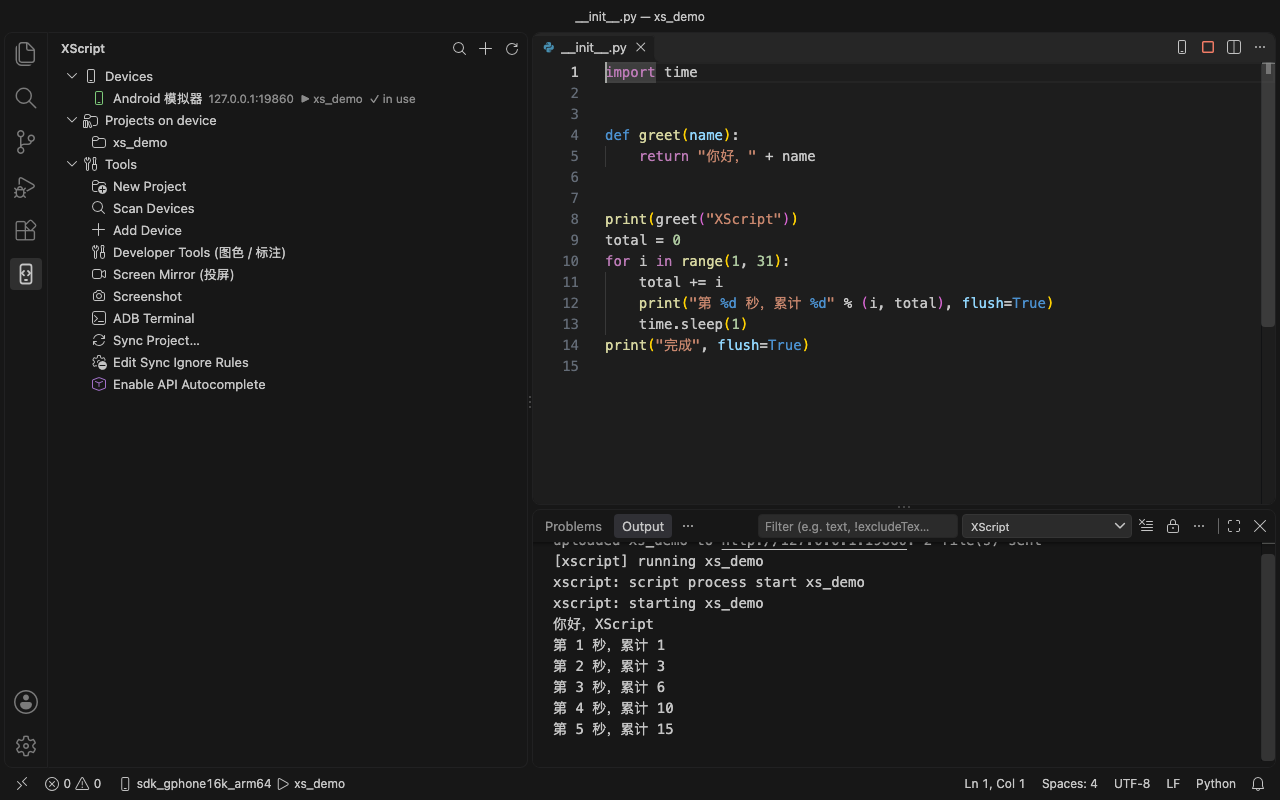
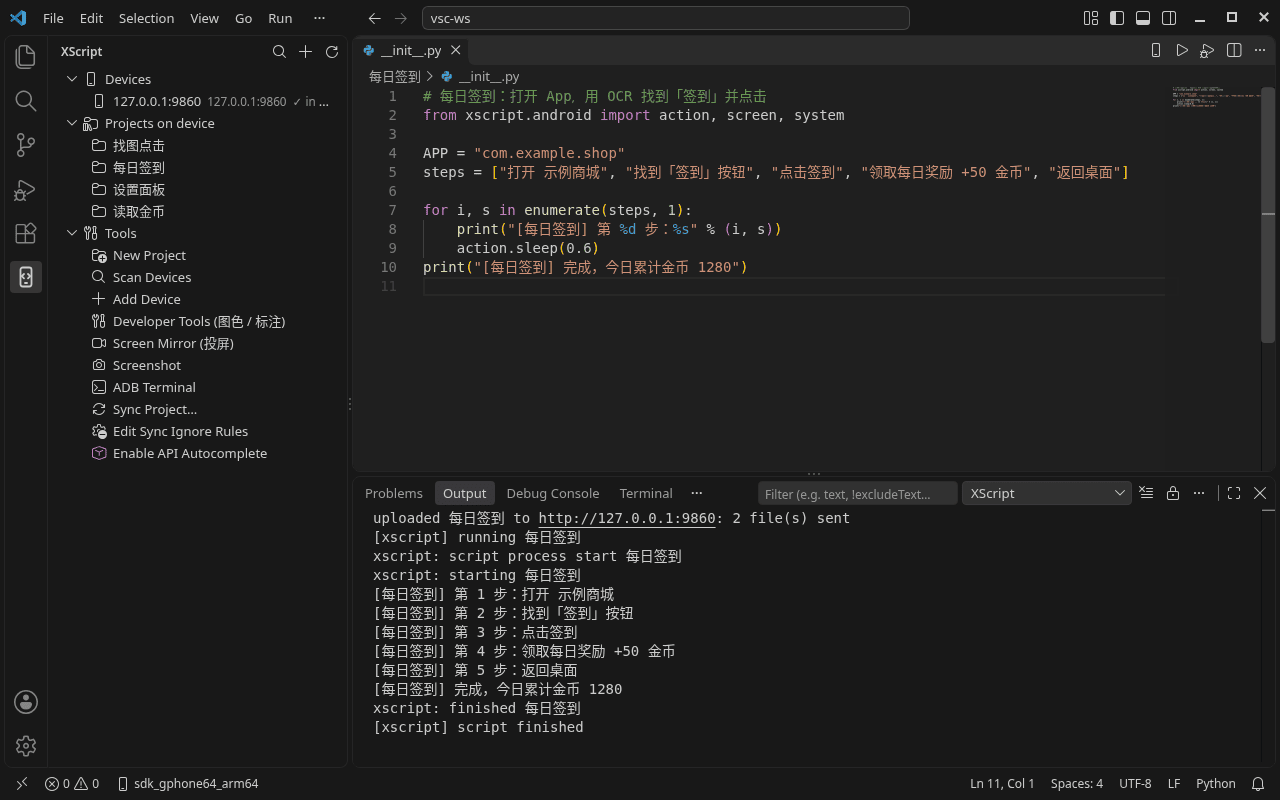
docs: refresh screenshots for the v0.4.0 UI and add admin console, pairing and template shots

diff --git a/README.en.md b/README.en.md
@@ -77,19 +77,22 @@ If you would rather not build it yourself, use the published packages. All you n
 
 | Home | Mini-program list | Mini-program details |
 | :---: | :---: | :---: |
-| <img src="docs/images/phone-home.png" width="220" alt="Home: developer address, current mini-program and permission status"> | <img src="docs/images/phone-projects.png" width="220" alt="Mini-program list: create, import"> | <img src="docs/images/phone-project.png" width="220" alt="Mini-program details: run, log, run on boot, scheduled tasks, files"> |
-| Developer address, permission status, one-tap run of the last mini-program | **New** / **Import**, tap one to open it | **Run** / **Log**, run on boot, re-run after stop, scheduled tasks |
+| <img src="docs/images/phone-home.png" width="220" alt="Home: current mini-program, developer address, pairing code, AI coding and cloud connection status, permissions"> | <img src="docs/images/phone-projects.png" width="220" alt="Mini-program list: create, import"> | <img src="docs/images/phone-project.png" width="220" alt="Mini-program details: run, log, run on boot, scheduled tasks, files"> |
+| Developer address, pairing code, permission status, one-tap run of the last mini-program | **New** / **Import**, tap one to open it | **Run** / **Log**, run on boot, re-run after stop, scheduled tasks |
 | **View code** | **Run log** | **Scheduled tasks** |
 | <img src="docs/images/phone-editor.png" width="220" alt="Viewing and editing __init__.py on the phone"> | <img src="docs/images/phone-run-log.png" width="220" alt="Run log: print output shown live, can be stopped and cleared"> | <img src="docs/images/phone-schedule.png" width="220" alt="Adding a scheduled task: daily at a time, every N minutes, run once"> |
 | Tap a file on the details page to view and make simple edits | `print` output shows live; **Stop** / **Clear** | Daily at a time, every N minutes, run once |
+| **Pairing code** | **New (templates)** | |
+| <img src="docs/images/phone-pairing.png" width="220" alt="Pairing code dialog: the code a computer enters on first connection; regenerate, copy or close"> | <img src="docs/images/phone-templates.png" width="220" alt="New mini-program: enter a name and pick a template (empty, Hello, AScript style, daily check-in, find image, OCR, floating UI)"> | |
+| Home → **Pairing code**: entered once by each computer; can be regenerated. The desktop client over USB pairs automatically | Seven templates, the same as **New Project** in the web IDE and the VS Code extension | |
 
 **4. Background floating window**: when a script is running and you send XScript to the background, a floating window appears at the edge of the screen (green dot + project name + elapsed time). After a few seconds without touch it shrinks into a semi-transparent ball. Dragging snaps it to the left or right edge with easing (staying clear of the status bar and navigation bar) and remembers the position, one for portrait and one for landscape. Tap it to expand **Stop / Log / Open / Hide** (icon above, small label below; colors follow the light/dark theme) plus any buttons the script added with `FloatWindow.add_menu`, so you can stop a script without returning to the app. If a script ends with an error the window turns red and stays for a few seconds. **Floating window display** on the home screen can be set to show while running (default) / always show in the background / off. It needs the **overlay permission**; without it the window is simply not shown and scripts run normally. It collapses when you return to the app or when the script ends.
 
 <img src="docs/images/phone-floating.png" width="240" alt="Floating window over another app: the expanded panel has Stop, Log, Open and Hide buttons">
 
-**5. Write scripts on the computer**: the **developer address** on the home screen is the address your computer connects to. On the same LAN, open `http://<developer address>/tools/` directly; over USB or with an emulator, run `adb forward tcp:19860 tcp:9860` first and then open `http://127.0.0.1:19860/tools/`, and go to the **Script IDE**.
+**5. Write scripts on the computer**: the **developer address** on the home screen is the address your computer connects to. On the same LAN, open `http://<developer address>/tools/` directly; over USB or with an emulator, run `adb forward tcp:19860 tcp:9860` first and then open `http://127.0.0.1:19860/tools/`, and go to the **Script IDE**. The first visit asks for the **pairing code** shown on the phone's home screen.
 
-![Script IDE: directory tree on the left, editor with Python highlighting on the right, run log below](docs/images/ide-overview.png)
+![Script IDE: projects and directory tree on the left, editor with Python highlighting in the middle, breakpoint debugging and run log below](docs/images/ide-overview.png)
 
 - **New** project from a template (empty, Hello, AScript-compatible, check-in, find image and tap, OCR readout, floating UI; the phone app's **New** offers the same list); **New** file / folder: file paths look like `utils/net.py` and go into the folder selected in the tree by default; the tree works like VS Code's.
 - ⌘/Ctrl+S saves; **Save and run** (F6) runs on the phone, **Stop** (Shift+F6) ends the run; **Save and debug** supports breakpoints, stepping and variable inspection.

diff --git a/README.md b/README.md
@@ -75,19 +75,22 @@ XScript 将设备端 Python 运行时、自动化 API、浏览器开发工具和
 
 | 首页 | 小程序列表 | 小程序详情 |
 | :---: | :---: | :---: |
-| <img src="docs/images/phone-home.png" width="220" alt="首页：开发者地址、当前小程序和各项权限状态"> | <img src="docs/images/phone-projects.png" width="220" alt="小程序列表：新建、导入"> | <img src="docs/images/phone-project.png" width="220" alt="小程序详情：运行、日志、开机自启、定时任务、文件"> |
-| 开发者地址、权限状态，一键运行上次的小程序 | **新建** / **导入**，点进某个小程序 | **运行** / **日志**、开机自启、停止后重新运行、定时任务 |
+| <img src="docs/images/phone-home.png" width="220" alt="首页：当前小程序、开发者地址、配对码、AI 编程和云控连接状态、各项权限"> | <img src="docs/images/phone-projects.png" width="220" alt="小程序列表：四个示例小程序，右上角新建、导入"> | <img src="docs/images/phone-project.png" width="220" alt="小程序详情：运行、日志、开机自启、定时任务、文件"> |
+| 开发者地址、配对码、权限状态，一键运行上次的小程序 | **新建** / **导入**，点进某个小程序 | **运行** / **日志**、开机自启、停止后重新运行、定时任务 |
 | **查看代码** | **运行日志** | **定时任务** |
 | <img src="docs/images/phone-editor.png" width="220" alt="手机上查看和修改 __init__.py"> | <img src="docs/images/phone-run-log.png" width="220" alt="运行日志：print 输出实时显示，可停止、清空"> | <img src="docs/images/phone-schedule.png" width="220" alt="添加定时任务：每天定时、每隔 N 分钟、只运行一次"> |
 | 详情页点文件即可查看和简单修改 | `print` 输出实时显示，可 **停止** / **清空** | 每天定时、每隔 N 分钟、只运行一次 |
+| **配对码** | **新建（模板）** | |
+| <img src="docs/images/phone-pairing.png" width="220" alt="配对码弹窗：电脑首次连接时输入的配对码，可重新生成、复制或关闭"> | <img src="docs/images/phone-templates.png" width="220" alt="新建小程序：填名称并选择模板（空白、Hello、AScript 风格、每日签到、找图、OCR、悬浮窗界面）"> | |
+| 首页「配对码」：电脑端首次连接时输入，可重新生成；USB 连接的桌面客户端自动配对 | 七个模板，与网页 IDE、VS Code 插件的「新建工程」相同 | |
 
 **4. 后台悬浮窗**：脚本运行时把 XScript 切到后台，屏幕边上会出现一个悬浮窗（绿点 + 工程名 + 已运行时间），几秒不碰就缩成半透明小球；拖动会带缓动吸附到左右边（避开状态栏和导航条）并记住位置，横竖屏各一份；点一下展开 **停止 / 日志 / 打开 / 隐藏**（图标在上、小字在下，随深浅色换配色）和脚本用 `FloatWindow.add_menu` 加的按钮，不用回到 App 就能停脚本；脚本出错结束时会标红保留几秒。首页 **悬浮窗显示** 可选 运行时显示（默认）/ 后台一直显示 / 已关闭，需要 **悬浮窗权限**，没授权时不显示也不影响运行。回到 App 或脚本结束就收起。
 
 <img src="docs/images/phone-floating.png" width="240" alt="在别的 App 上方显示的悬浮窗：展开后有停止、日志、打开、隐藏四个按钮">
 
-**5. 在电脑上写脚本**：首页 **开发者地址** 就是电脑要访问的地址。同一局域网直接打开 `http://<开发者地址>/tools/`；USB 或模拟器先 `adb forward tcp:19860 tcp:9860`，再打开 `http://127.0.0.1:19860/tools/`，进入 **脚本 IDE**。
+**5. 在电脑上写脚本**：首页 **开发者地址** 就是电脑要访问的地址。同一局域网直接打开 `http://<开发者地址>/tools/`；USB 或模拟器先 `adb forward tcp:19860 tcp:9860`，再打开 `http://127.0.0.1:19860/tools/`，进入 **脚本 IDE**。第一次打开会要求输入手机首页的 **配对码**。
 
-![脚本 IDE：左侧目录树，右侧带 Python 高亮的编辑器，下方运行日志](docs/images/ide-overview.png)
+![脚本 IDE：左侧工程和目录树，中间带 Python 高亮的编辑器，下方断点调试和运行日志](docs/images/ide-overview.png)
 
 - **新建** 工程时可选模板（空工程、Hello、AScript 兼容、签到、找图点击、OCR 读数、悬浮窗 UI，手机 App 的「新建」也一样）；新建文件 / 文件夹：文件路径如 `utils/net.py`，默认放在目录树选中的文件夹里；目录树用法同 VS Code。
 - ⌘/Ctrl+S 保存，**保存并运行**（F6）在手机上运行，**停止**（Shift+F6）结束；**保存并调试** 支持断点、单步和变量查看。

diff --git a/backend/README.md b/backend/README.md
@@ -2,6 +2,8 @@
 
 XScript 的 PC / 服务器端。这里的内容都不在手机上运行。
 
+![管理后台概览：在线设备、卡密、定时任务统计和近 30 天激活 / 新设备趋势图（演示数据）](../docs/images/admin-overview.png)
+
 **Python 版本**：后台、MCP 服务和构建机统一要求 Python 3.10+（设备上内置的也是 3.10，`ide/python-stubs` 类型存根 3.8 起可用）。3.11 及以上使用 `websockets 17` / `sqlalchemy 2.1`，3.10 由 `pyproject.toml` 的环境标记自动装 `websockets 16.1.1` / `sqlalchemy 2.0.54`；两条路径的后台和 MCP 测试都通过。`scripts/verify.sh` 会在 `.venv310`（uv 自动创建）里用 3.10 再跑一遍。
 
 | 路径 | 作用 |
@@ -43,6 +45,8 @@ XScript 的 PC / 服务器端。这里的内容都不在手机上运行。
 - **数据保留** 随每日备份一起执行：已完成的打包任务中，除最新的 `keep_pack_jobs` 个以外，其余的 APK 都会删除（任务记录保留）；早于 `audit_days` 的操作日志会删除；过期超过一周的分享链接会删除。设为 0 则全部保留。
 
 ### 打包机（远程打包）
+
+![APK 打包页：左侧选择工程、应用信息和功能，右侧打包记录和打包机列表（两台在线，演示数据）](../docs/images/admin-pack.png)
 
 默认（`XSCRIPT_PACK_MODE=local`）服务器自己一次打一个包。设 `XSCRIPT_PACK_MODE=remote` 后，任务留在数据库里，由单独的打包机领取：
 
@@ -107,6 +111,10 @@ PYTHONPATH=backend .venv/bin/python -m unittest discover -s backend/tests
 
 ### 代理
 
+| 管理员：「代理」页 | 代理登录后：「我的概览」 |
+| :---: | :---: |
+| ![代理列表：额度用量、各状态卡数、发卡限制和近 30 天激活（演示数据）](../docs/images/admin-resellers.png) | ![代理的我的概览：剩余额度、发卡范围和销量趋势（演示数据）](../docs/images/admin-reseller-home.png) |
+
 - 管理员在「用户」里创建角色为「代理」的账号；新代理没有额度。`PUT /api/resellers/{id}` 设置限制：允许的应用包名（`*` = 任意）、卡类型、最长有效期（0 = 允许永久卡）、每张卡最多设备数、按次卡最多次数；`POST /api/resellers/{id}/quota`（`delta` 为正充值、为负扣回，不能低于已生成数）调整额度。
 - 额度是「累计可生成的卡数」：生成时原子扣减（并发请求不会超额），作废或删除卡密不退回。
 - 代理生成的卡密记录 `owner_id`；管理员的卡密列表、导出和趋势可以按代理筛选（`owner=<用户 id>`，`owner=-1` 只看员工生成的）。`GET /api/resellers` 列出每个代理的额度、各状态卡数和近 30 天激活数，`GET /api/resellers/{id}/stats/daily` 是该代理的每日生成 / 激活 / 到期。
@@ -116,6 +124,8 @@ PYTHONPATH=backend .venv/bin/python -m unittest discover -s backend/tests
 ### AI 写脚本
 
 在后台描述任务，由大模型生成小程序入口 `__init__.py`，检查语法后保存为小程序的新版本，再用现有的「下发」装到设备上测试。
+
+![AI 写脚本：左侧描述需求，右侧是生成的代码、语法检查结果和模型说明（演示用的本地假模型）](../docs/images/admin-ai.png)
 
 - **模型配置**和设备脚本的 `ai.config` 是同一套：服务器环境变量 `XSCRIPT_AI_BASE_URL`（含 `/v1` 之类的前缀）、`XSCRIPT_AI_MODEL`、`XSCRIPT_AI_KEY`，任何 OpenAI 兼容接口都可以（`{base_url}/chat/completions`，本地模型可以不设密钥）。系统设置里可以覆盖接口地址和模型；**密钥只从环境变量读取**，不存数据库、不写日志、不在任何接口里返回（`GET /api/ai/status` 只给出 `key_set`）。不跟随重定向，避免密钥被转发。
 - `POST /api/ai/script`（操作员）：`{prompt, code?}`，带上 `code` 就是在现有代码上修改。系统提示里附带 API 目录（`xscript_server/api_catalog.json`，和 MCP 的 `api_catalog.json` 是同一份，测试会检查两份一致），返回 `{code, notes, syntax_error, model, usage, ms}`。只做语法检查，服务器不运行生成的代码。每人每 10 分钟最多 20 次。

diff --git a/docs/使用手册.md b/docs/使用手册.md
@@ -278,6 +278,12 @@ yolo export model=runs/detect/train/weights/best.pt format=onnx imgsz=640
 
 网页后台，用来同时管理多台设备（手机不需要和电脑在同一网络）、生成和管理卡密、在线打包 APK。技术上是 FastAPI 服务 + React 控制台，代码在 `backend/`。
 
+![管理后台概览：在线设备、卡密、定时任务统计和近 30 天趋势图（演示数据）](images/admin-overview.png)
+
+| 设备管理 | 屏幕墙 | 卡密管理 |
+| :---: | :---: | :---: |
+| ![设备列表：在线状态、分组、脚本运行情况和操作（演示数据）](images/admin-devices.png) | ![屏幕墙：同时查看多台设备的实时画面（演示数据）](images/admin-wall.png) | ![卡密管理：各状态统计、卡密列表、来源和筛选（演示数据）](images/admin-cards.png) |
+
 ### 第一次安装和启动
 
 在仓库根目录执行：
@@ -435,6 +441,8 @@ yolo export model=runs/detect/train/weights/best.pt format=onnx imgsz=640
 ## 7. APK 打包
 
 在后台 **APK 打包** 页面：
+
+![APK 打包页：选择工程、填写应用信息和功能，右侧是打包记录和打包机（演示数据）](images/admin-pack.png)
 
 1. **工程来源**：上传工程 zip（带 `__init__.py`，AScript 导出的也可以），或选 **小程序版本**（留空版本 = 当前发布版本）。
 2. 填包名（如 `com.me.game`）、App 名称、版本号、versionCode，可选图标（PNG）。

diff --git a/CHANGELOG.md b/CHANGELOG.md
@@ -4,6 +4,7 @@
 
 ## 未发布
 
+- 文档：按 v0.4.0 界面重拍说明文档截图（手机 App、桌面端、网页 IDE、VS Code 插件），新增配对码、新建模板和管理后台（概览趋势、设备、屏幕墙、卡密、代理、AI 写脚本、APK 打包与打包机）截图，均为演示数据。
 - 修复：手机 `/status` 上报的版本号一直是 0.2.0，现在与 App 版本一致；模拟设备与演示后端从同一处读取，版本不一致时测试会失败。
 - 修复：v0.4.0 桌面端 dmg 在别的 Mac 上下载后提示“XScript 已损坏，无法打开”。原因是打包脚本在签名之后又改了 Info.plist，签名失效。现在改完后重新签名并校验；v0.4.0 Release 里的 dmg 已替换（标签未动），首次打开说明已更新。
 - 发布流程：release 工作流在 macOS 运行器上构建并校验桌面端 dmg，与 APK 一起附到 Release 并写入 `SHA256SUMS`。
